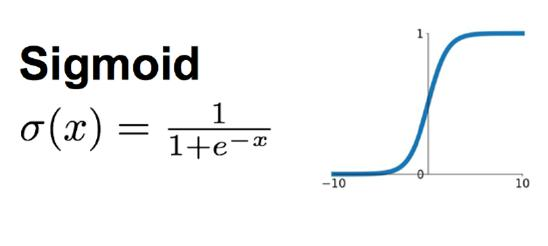
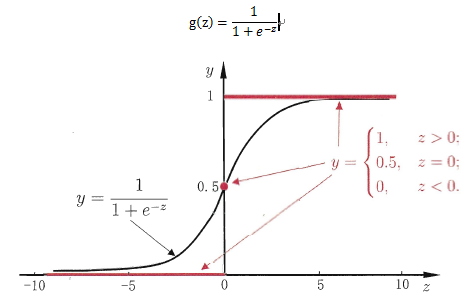
up

diff --git a/tutorial/logistics_regression.md b/tutorial/logistics_regression.md
@@ -40,6 +40,8 @@
 
 这样一个函数它不再像线性回归函数一样受离群值影响，他的输出结果是样本预测为正例或负例的概率(0到1之间的小数)。
 
+从函数图上可以看出，函数y = g(z)在z = 0时为1/2，随着z逐渐变小，函数值趋于0，z逐渐变大时函数值趋于1。
+如果定义线性回归的预测函数为![image](https://github.com/kebiao/deeplearning/blob/master/screenshots/tutorial/getting_started_10_1.png)，那么逻辑回归的输出![image](https://github.com/kebiao/deeplearning/blob/master/screenshots/tutorial/getting_started_10_2.png)，其中 y= g(z)正是上述sigmoid函数。
 
 #### 选定阈值
 
